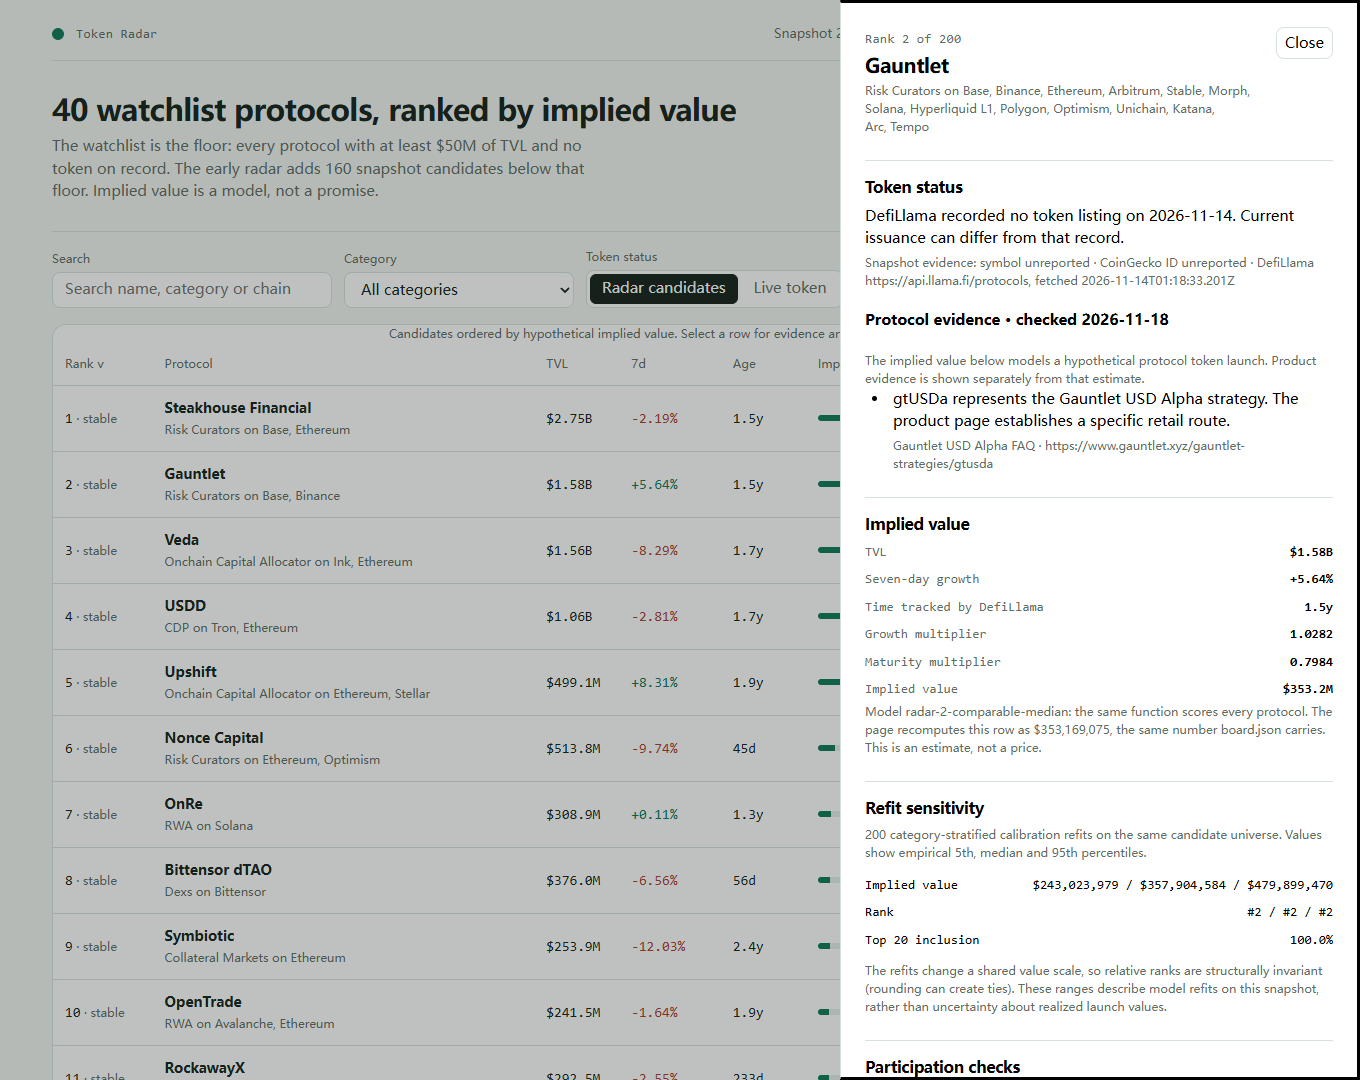
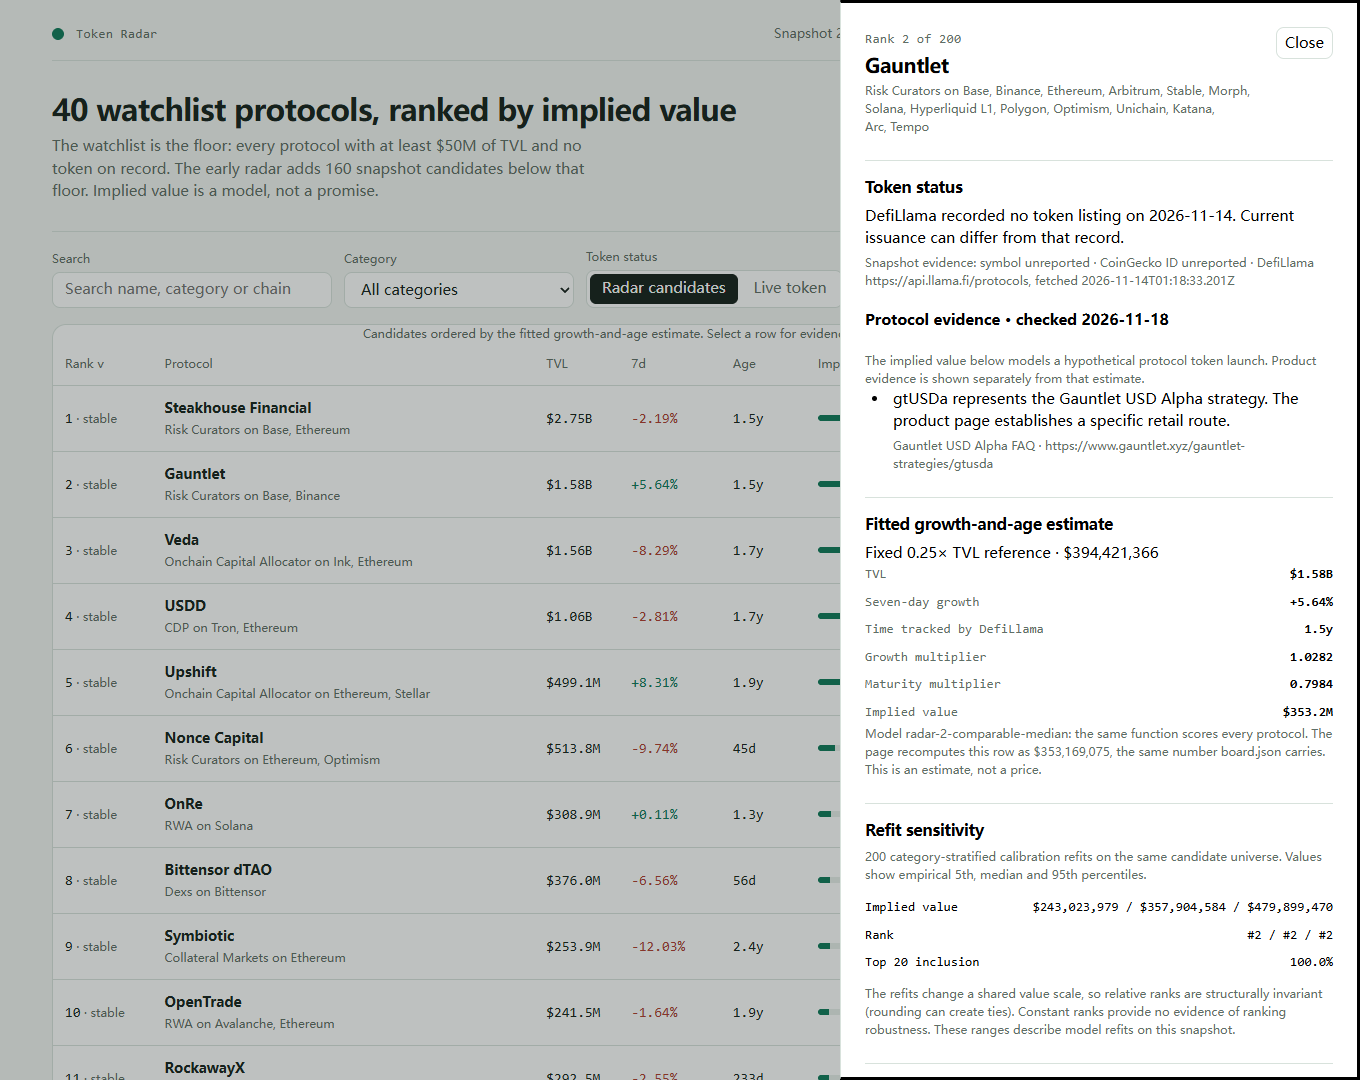
Explain valuation selection and expose the fixed TVL reference

Changed region(s): [[0.6176, 0.4583, 0.9882, 1.0], [0.2779, 0.3056, 0.6176, 0.3361]]

diff --git a/dashboard/app.js b/dashboard/app.js
@@ -195,7 +195,7 @@
     return el('div', { class: 'panel' },
       el('div', { class: 'table-wrap' },
         el('table', null,
-          el('caption', { class: 'sub', text: 'Candidates ordered by hypothetical implied value. Select a row for evidence and participation checks.' }),
+          el('caption', { class: 'sub', text: 'Candidates ordered by the fitted growth-and-age estimate. Select a row for evidence and participation checks.' }),
           el('thead', null, el('tr', null,
             sortHeader('implied', 'Rank'),
             sortHeader('name', 'Protocol'),
@@ -238,8 +238,14 @@
     var diagnostic = DATA.calibration_diagnostic;
     if (!diagnostic || !diagnostic.overall) return el('p', { text: 'Too few unique token comparables for held-out evaluation.' });
     var summary = diagnostic.overall;
+    var comparison = DATA.valuation_comparison;
+    var fittedError = summary.median_absolute_log_error;
+    var referenceError = summary.baseline_median_absolute_log_error;
+    var result = fittedError === referenceError ? 'The models tie on this metric.'
+      : (fittedError < referenceError ? comparison.primary.label : comparison.reference.label) + ' has the lower held-out error.';
     return el('section', { class: 'panel model', 'aria-label': 'Calibration diagnostic' },
       el('h2', { text: 'Held-out calibration check' }),
+      el('p', { text: result + ' ' + comparison.primary.rationale }),
       el('p', { text: summary.count + ' distinct token comparables; each prediction fits the scale using all other tokens.' }),
       el('p', { text: 'Median absolute log error: fitted ' + summary.median_absolute_log_error.toFixed(3)
         + ' · fixed 0.25× TVL baseline ' + summary.baseline_median_absolute_log_error.toFixed(3) }),
@@ -311,7 +317,7 @@
         el('div', null, el('dt', { text: 'Rank' }), el('dd', { text: [rank.p05, rank.median, rank.p95].map(function (n) { return '#' + n; }).join(' / ') })),
         el('div', null, el('dt', { text: 'Top ' + config.top_count + ' inclusion' }), el('dd', { text: inclusion + '%' }))
       ),
-      el('p', { class: 'sub', text: 'The refits change a shared value scale, so relative ranks are structurally invariant (rounding can create ties). These ranges describe model refits on this snapshot, rather than uncertainty about realized launch values.' })
+      el('p', { class: 'sub', text: 'The refits change a shared value scale, so relative ranks are structurally invariant (rounding can create ties). Constant ranks provide no evidence of ranking robustness. These ranges describe model refits on this snapshot.' })
     );
   }
 
@@ -332,7 +338,8 @@
     ));
     dialog.appendChild(tokenStatusSection(row.token_status));
     dialog.appendChild(el('section', { class: 'detail-section' },
-      el('h3', { text: 'Implied value' }),
+      el('h3', { text: 'Fitted growth-and-age estimate' }),
+      el('p', { text: DATA.valuation_comparison.reference.label + ' · ' + usd.format(row.fixed_tvl_estimate_usd) }),
       el('div', { class: 'equation' },
         el('div', null, el('span', { text: 'TVL' }), el('b', { class: 'num', text: fmtUsd(row.tvl_usd) })),
         el('div', null, el('span', { text: 'Seven-day growth' }), el('b', { class: 'num', text: fmtPct(row.change_7d) })),

diff --git a/main.ts b/main.ts
@@ -20,7 +20,7 @@ import { boardIssue, buildRadar, dataScript, parseSnapshot } from './lib/model.t
 import { buildDossier } from './vendor/makefun-board.ts';
 
 import { measureRefitSensitivity } from './lib/stability.ts';
-import { calibrationDiagnostic } from './lib/diagnostics.ts';
+import { calibrationDiagnostic, fixedTvlEstimate, valuationComparison } from './lib/diagnostics.ts';
 import { productResearch } from './lib/evidence.ts';
 
 const here = fileURLToPath(new URL('.', import.meta.url));
@@ -56,9 +56,9 @@ if (issue !== null) {
 
 const { rows: sensitivity, ...refitInfo } = measureRefitSensitivity(snapshot, board.map(row => row.slug));
 const diagnostic = calibrationDiagnostic(snapshot);
-const enrichedBoard = board.map(row => ({ ...row, refit_sensitivity: sensitivity.get(row.slug)! }));
+const enrichedBoard = board.map(row => ({ ...row, fixed_tvl_estimate_usd: fixedTvlEstimate(row.tvl_usd), refit_sensitivity: sensitivity.get(row.slug)! }));
 mkdirSync(out, { recursive: true });
-writeFileSync(join(out, 'board.json'), `${JSON.stringify({ rows: enrichedBoard, refit_sensitivity: refitInfo, calibration_diagnostic: diagnostic })}\n`);
+writeFileSync(join(out, 'board.json'), `${JSON.stringify({ rows: enrichedBoard, refit_sensitivity: refitInfo, calibration_diagnostic: diagnostic, valuation_comparison: valuationComparison })}\n`);
 // Retain the actual listing fields behind each detail's snapshot status.
 const recordedProtocols = new Map(snapshot.protocols.map((protocol) => [protocol.slug, protocol]));
 const detailRows = radar.rows.map((row) => {
@@ -66,6 +66,7 @@ const detailRows = radar.rows.map((row) => {
   const evidence = productResearch[row.slug];
   return {
     ...row,
+    fixed_tvl_estimate_usd: fixedTvlEstimate(row.tvl_usd),
     refit_sensitivity: sensitivity.get(row.slug)!,
     token_status: {
       snapshot_date: snapshot.as_of,
@@ -102,7 +103,7 @@ const detailRows = radar.rows.map((row) => {
     },
   };
 });
-const dashboardData = { ...radar, refit_sensitivity: refitInfo, rows: detailRows, calibration_diagnostic: diagnostic };
+const dashboardData = { ...radar, refit_sensitivity: refitInfo, rows: detailRows, calibration_diagnostic: diagnostic, valuation_comparison: valuationComparison };
 writeFileSync(join(out, 'data.js'), dataScript(dashboardData));
 
 /** Copy one directory's regular files into `to`, skipping names that start with a dot. */

diff --git a/lib/diagnostics.ts b/lib/diagnostics.ts
@@ -11,6 +11,21 @@ interface Prediction {
   training_count: number;
 }
 
+export function fixedTvlEstimate(tvlUsd: number): number {
+  return Math.max(1, Math.round(tvlUsd * MODEL.base_multiple));
+}
+
+export const valuationComparison = {
+  primary: {
+    label: 'Fitted growth-and-age model',
+    rationale: 'Retained for the radar ranking because it includes bounded growth and listing-age adjustments. The holdout compares the complete fitted model with a TVL-only reference; it cannot isolate the effect of fitting the scale.',
+  },
+  reference: {
+    label: 'Fixed 0.25× TVL reference',
+    formula: 'One quarter of snapshot TVL, rounded to dollars with a minimum of one dollar.',
+  },
+};
+
 /** Median absolute natural-log error is insensitive to the units used for valuation. */
 function median(values: number[]): number {
   const sorted = [...values].sort((a, b) => a - b);
@@ -39,7 +54,7 @@ export function calibrationDiagnostic(snapshot: Snapshot) {
     const training = comparables.filter((_, trainingIndex) => trainingIndex !== index);
     const fitted = fitComparables(training, snapshot.as_of);
     const predicted = impliedValue(heldOut, snapshot.as_of, fitted).implied;
-    const baseline = Math.max(1, Math.round(heldOut.tvl_usd * MODEL.base_multiple));
+    const baseline = fixedTvlEstimate(heldOut.tvl_usd);
     const observed = heldOut.mcap_usd!;
     return {
       slug: heldOut.slug,

diff --git a/README.md b/README.md
@@ -14,7 +14,9 @@ node main.ts --input /path/to/kit/input/snapshot.json --output ./out
 
 Open `out/dashboard/index.html`. Use the search box or category selector to narrow the board, sort by column, and select a row for its evidence, implied value, and participation checks. The same entrypoint writes `board.json` and `dossier.json`.
 
-## What the estimate means
+## Valuation and held-out comparison
+
+The fitted growth-and-age estimate drives the ranking and is exported as `implied_value_usd`. Each candidate also has a fixed reference of 0.25 × snapshot TVL in `fixed_tvl_estimate_usd`. In leave-one-token-out evaluation on 128 traded comparables, the fixed reference had lower median absolute log error (1.591 versus 1.647). The comparison changes both the scale and the use of growth and age, so it cannot isolate calibration's contribution. We retain the fitted estimate as the radar's growth- and age-adjusted scenario. Constant ranks across refits reflect the shared scale and provide no evidence of ranking robustness.
 
 The scale is the median market-cap-to-adjusted-TVL ratio across distinct CoinGecko IDs in the snapshot. Each ID supplies its largest-TVLed protocol record. Growth and listing age use bounded starter adjustments. With fewer than 10 comparables, the fallback scale is 0.25. The fitted scale stays between 0.05 and 2.
 
